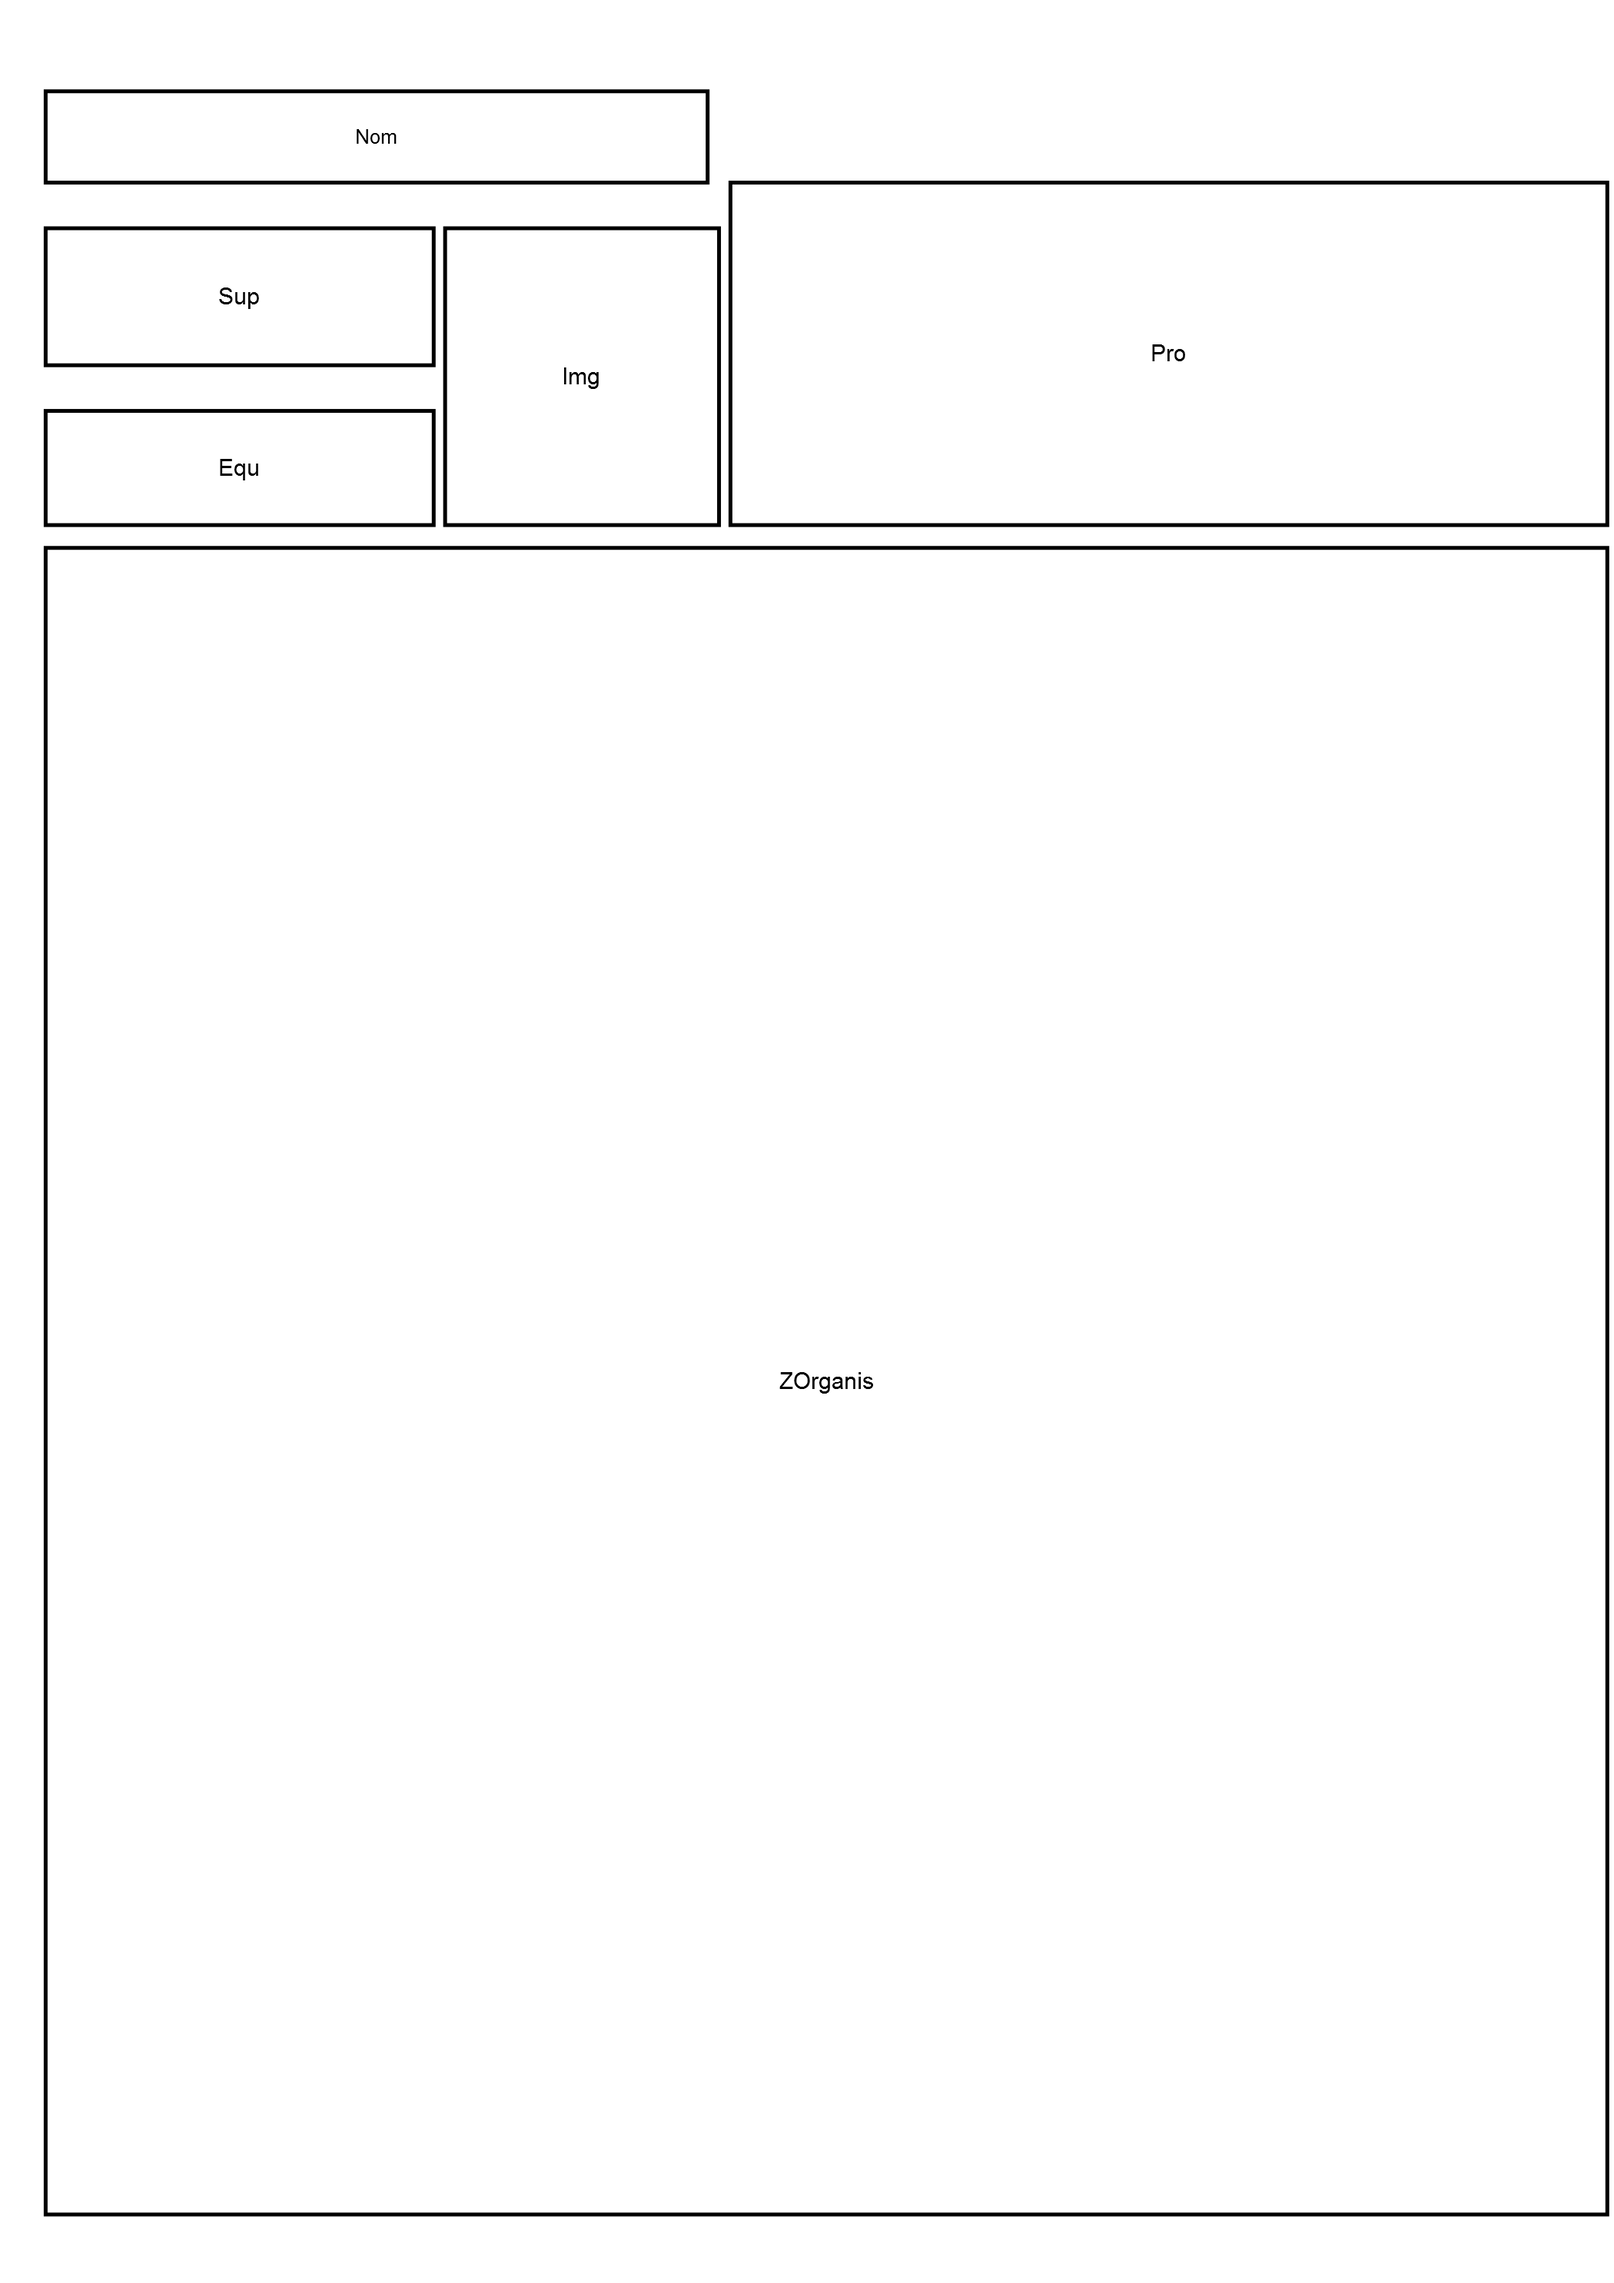
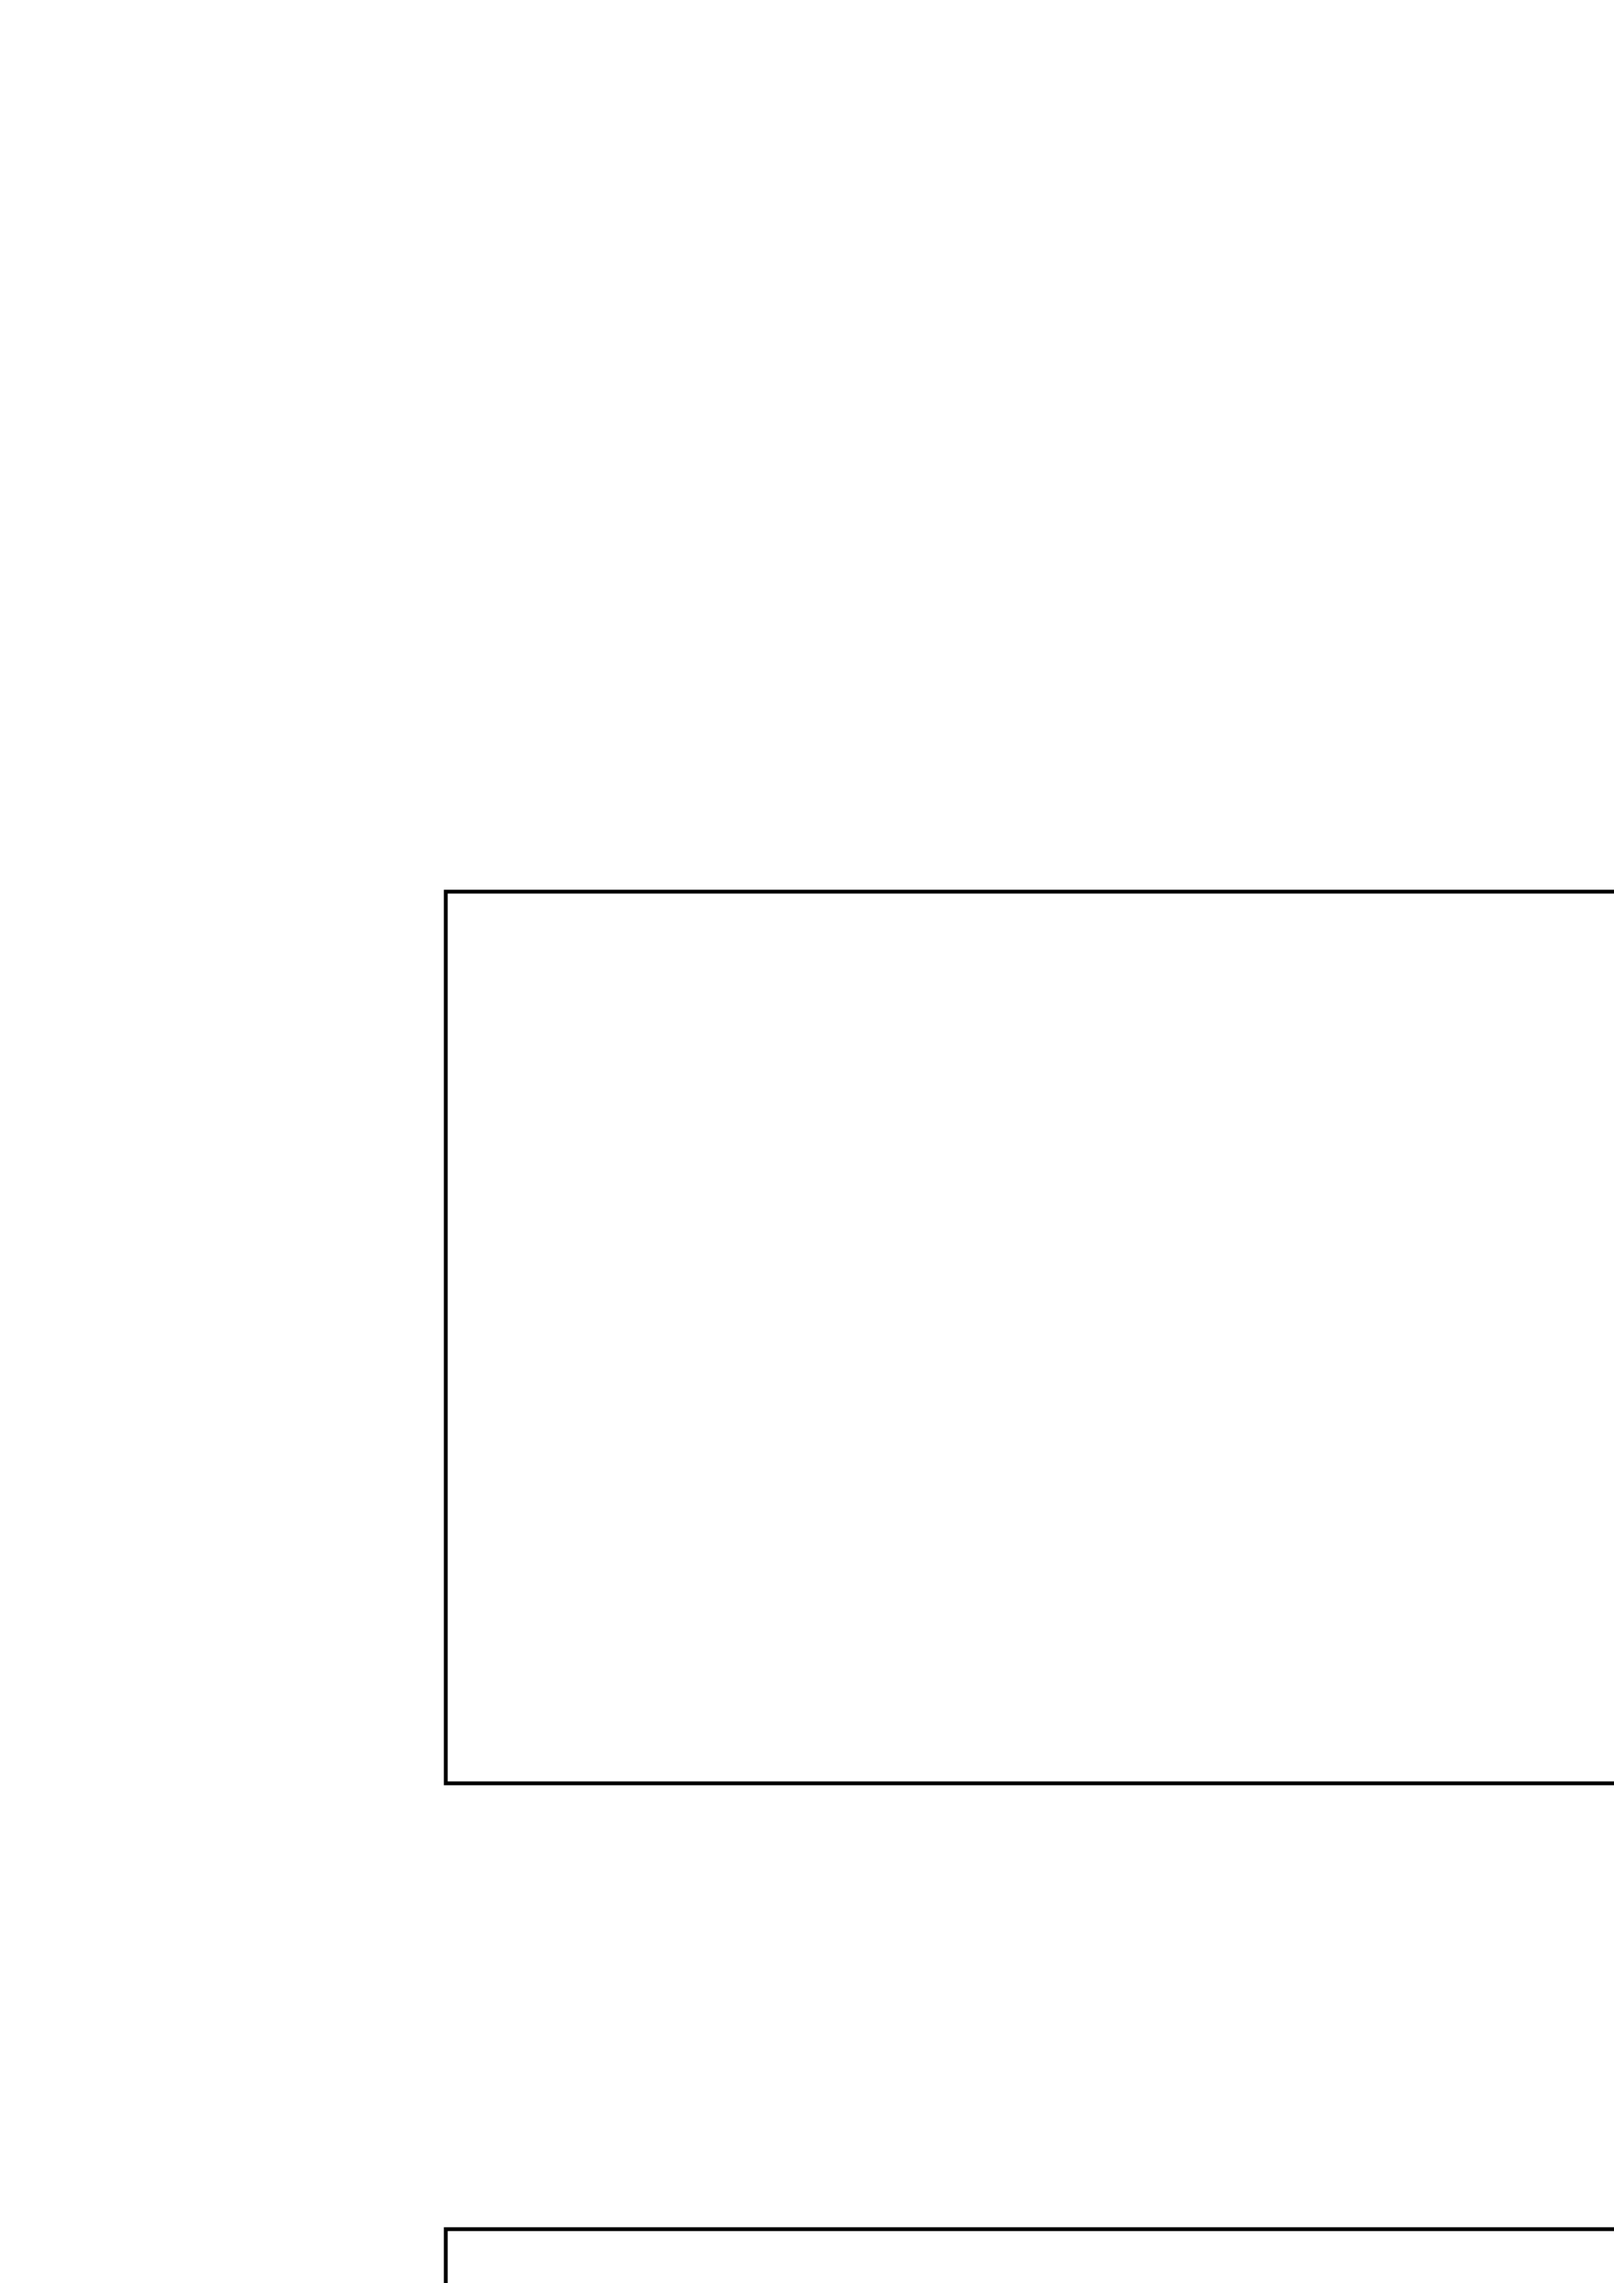
Modification cadres arrondis

Changed region(s): [[0.031, 0.062, 1.0, 0.9912], [0.2167, 0.031, 0.2476, 0.062]]

diff --git a/src/draw_cairo.py b/src/draw_cairo.py
@@ -1260,7 +1260,7 @@ def curve_rect_titre(ctx, titre, rect,
     fheight = ctx.font_extents()[2]
     xbearing, ybearing, width, height, xadvance, yadvance = ctx.text_extents(titre)
       
-    c = curve_rect(ctx, x0, y0, rect_width, rect_height, rayon, 
+    c = curve_rect_coin(ctx, x0, y0, rect_width, rect_height, rayon, 
                ouverture = min(width + fheight, rect_width-2*rayon))
     
     ctx.set_source_rgba(*coul_int)
@@ -1268,7 +1268,7 @@ def curve_rect_titre(ctx, titre, rect,
     ctx.set_source_rgba(*coul_bord)
     ctx.stroke()
     
-    xc = x0 + rayon
+    xc = x0# + rayon
     mask = cairo.LinearGradient(xc, y0, xc, y0 - height)
     mask.add_color_stop_rgba(1, 1, 1, 1, 0)
     mask.add_color_stop_rgba(0, coul_int[0], coul_int[1], coul_int[2], coul_int[3])
@@ -1276,7 +1276,7 @@ def curve_rect_titre(ctx, titre, rect,
     ctx.set_source(mask) 
     ctx.fill()
     
-    xc = x0 + rayon + fheight/2
+    xc = x0 + fheight/2# + rayon
     yc = y0 + ybearing - fheight/3#height
     
     ctx.move_to(xc, yc)
@@ -1287,6 +1287,62 @@ def curve_rect_titre(ctx, titre, rect,
                        taille_font, 1, ha = "g")
     
     return c
+
+
+##################################################################################
+def curve_rect_coin(ctx, x0, y0, rect_width, rect_height, radius, ouverture = 0):
+    """    Dessine une zone de texte aux bords arrondis
+            avec un coin "carré" (en haut à gauche)
+            >> Renvoie le point caractéristique (svg)
+    """
+    x1=x0+rect_width
+    y1=y0+rect_height
+    #if (!rect_width || !rect_height)
+    #    return
+    if rect_width/2<radius:
+        if rect_height/2<radius:
+            ctx.move_to  (x0, (y0 + y1)/2)
+            ctx.line_to (x0 ,y0)
+            ctx.line_to ((x0 + x1)/2, y0)
+            ctx.curve_to (x1, y0, x1, y0, x1, (y0 + y1)/2)
+            ctx.curve_to (x1, y1, x1, y1, (x1 + x0)/2, y1)
+            ctx.curve_to (x0, y1, x0, y1, x0, (y0 + y1)/2)
+        else:
+            ctx.move_to  (x0, y0 + radius)
+            ctx.line_to (x0 ,y0)
+            ctx.line_to ((x0 + x1)/2 ,y0)
+            ctx.curve_to (x1, y0, x1, y0, x1, y0 + radius)
+            ctx.line_to (x1 , y1 - radius)
+            ctx.curve_to (x1, y1, x1, y1, (x1 + x0)/2, y1)
+            ctx.curve_to (x0, y1, x0, y1, x0, y1- radius)
+    
+    else:
+        if rect_height/2<radius:
+            ctx.move_to  (x0, (y0 + y1)/2)
+            ctx.line_to (x0 ,y0)
+            ctx.move_to  (x0 + ouverture, y0)
+            
+            ctx.line_to (x1 - radius, y0)
+            ctx.curve_to (x1, y0, x1, y0, x1, (y0 + y1)/2)
+            ctx.curve_to (x1, y1, x1, y1, x1 - radius, y1)
+            ctx.line_to (x0 + radius, y1)
+            ctx.curve_to (x0, y1, x0, y1, x0, (y0 + y1)/2)
+#             ctx.line_to  (x0, (y0 + y1)/2)
+#             ctx.curve_to (x0 , y0, x0 , y0, x0 + radius, y0)
+            
+        else:
+            ctx.move_to  (x0 + ouverture, y0)
+            ctx.line_to (x1 - radius, y0)
+            ctx.curve_to (x1, y0, x1, y0, x1, y0 + radius)
+            ctx.line_to (x1 , y1 - radius)
+            ctx.curve_to (x1, y1, x1, y1, x1 - radius, y1)
+            ctx.line_to (x0 + radius, y1)
+            ctx.curve_to (x0, y1, x0, y1, x0, y1- radius)
+            ctx.line_to (x0, y0)
+    
+    # Renvoie les coordonnées du 1er point = caractéristique du path SVG
+    return x0 + ouverture, y0 
+
 
 
 ##################################################################################
@@ -1336,7 +1392,8 @@ def curve_rect(ctx, x0, y0, rect_width, rect_height, radius, ouverture = 0):
             ctx.curve_to (x0 , y0, x0 , y0, x0 + radius, y0)
     
     # Renvoie les coordonnées du 1er point = caractéristique du path SVG
-    return x0 + radius + ouverture, y0 
+    return x0 + radius  + ouverture, y0 
+
 
 
 def image(ctx, x, y, w, h, bmp, marge = 0):

diff --git a/src/draw_cairo_prj.py b/src/draw_cairo_prj.py
@@ -1309,3 +1309,9 @@ def gabarit():
     
     imagesurface.write_to_png('gabarit_prj.png')
        
+
+
+if __name__ == "__main__":
+    gabarit()
+
+
